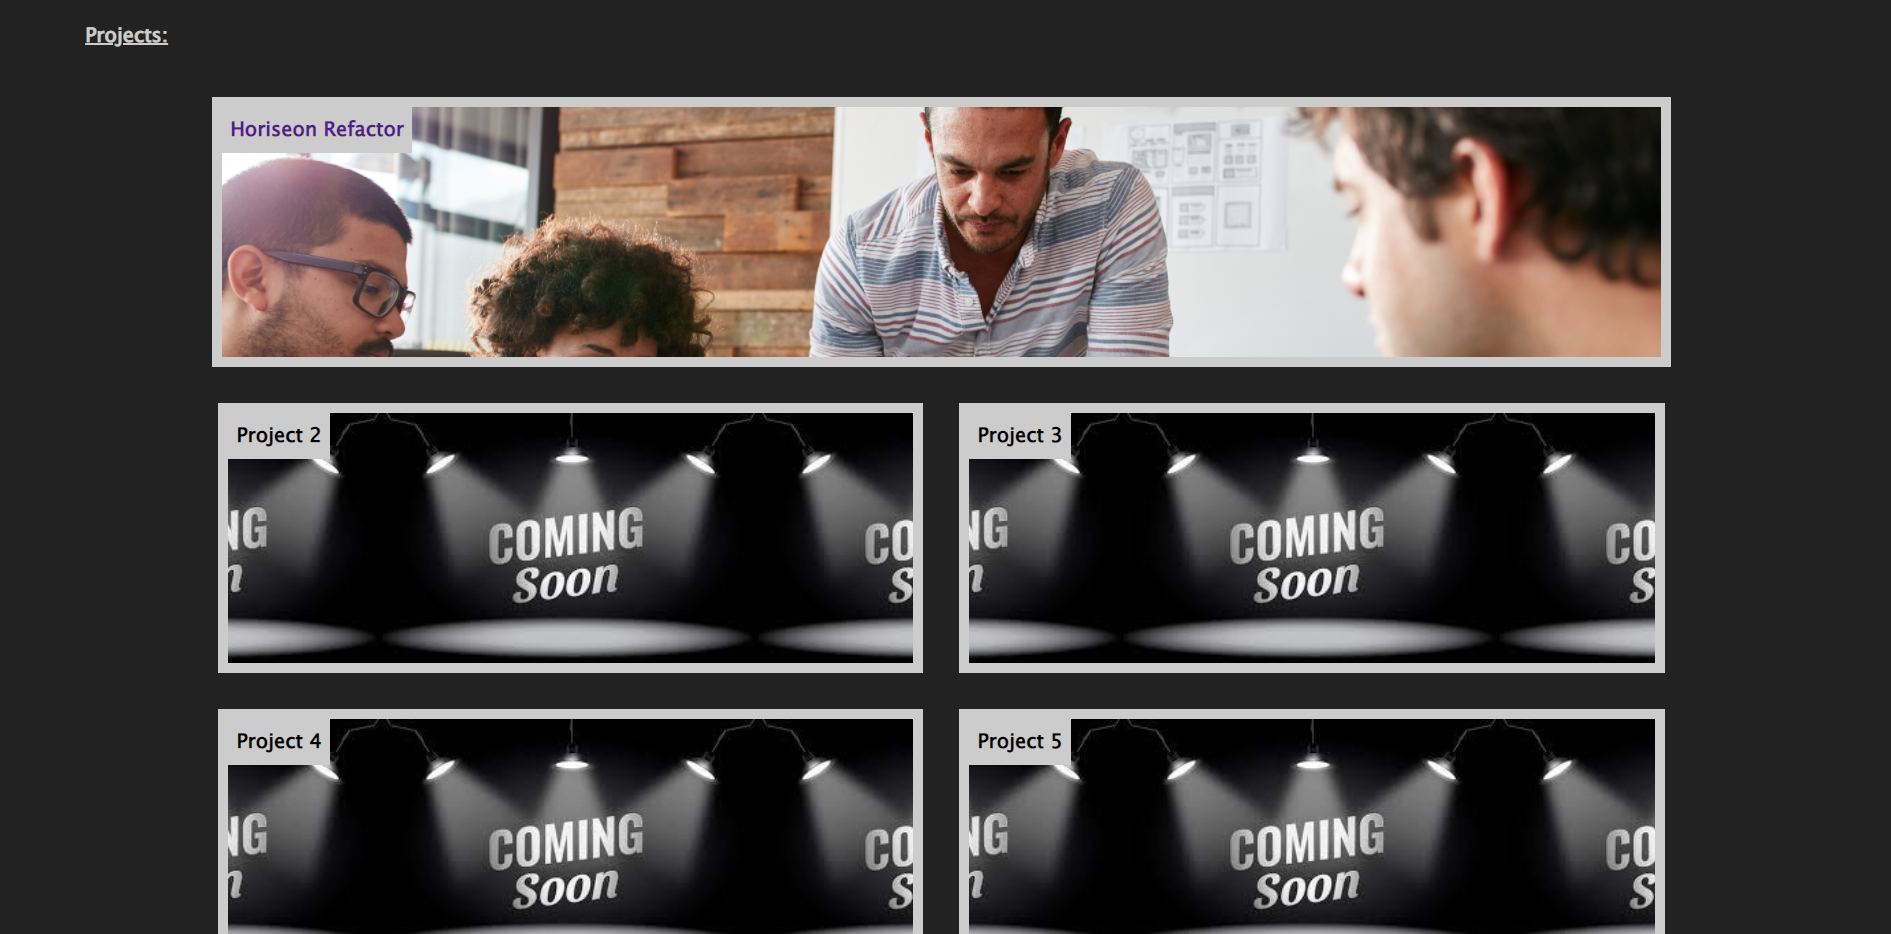
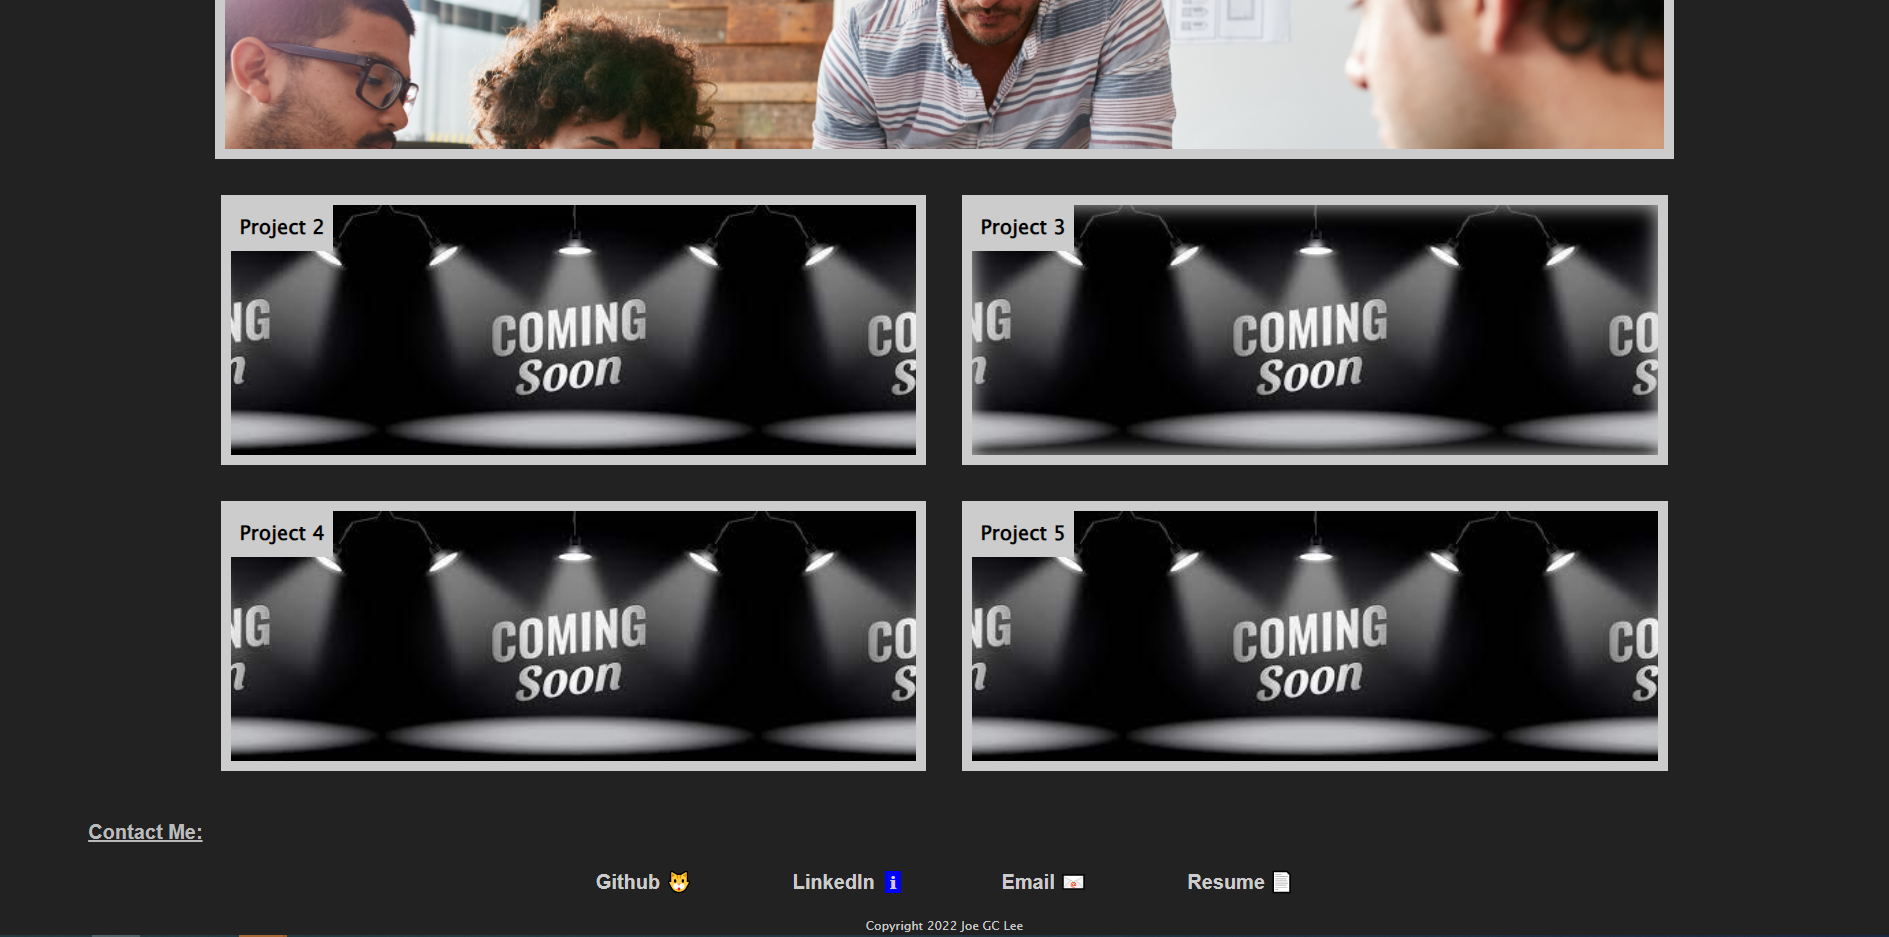
final changes for responsive and screenshots

diff --git a/Assets/style.css b/Assets/style.css
@@ -182,25 +182,22 @@ nav a:hover {
 }
 
 .contactme ul { 
-    display: flex; 
-    justify-content: center; 
+    text-align: center;
     align-items: center; 
     margin: 0; 
     padding: 20px; 
 }
 
 .contactme li {
-    margin:0 50px 0 50px;
+    margin: 0 50px; 
     list-style: none; 
     align-items: center; 
-
 }
 
 .contactme a {
     color: var(--light);
     font-weight: bold;
     text-decoration: none;
-    text-align: center;
 }
 
 .contactme a:hover {
@@ -209,14 +206,14 @@ nav a:hover {
 
 /* icons at contactme  */
 .github a::after {
-    display: inline; 
+    display: inline;
     font-size: 20px;
     content: "🐱";
     margin-left: 5px;
 }
 
 .linkedin a::after {
-    display: inline; 
+    display: inline;
     font-size: 20px;
     background-color: blue;
     content: "ℹ";
@@ -225,14 +222,14 @@ nav a:hover {
 }
 
 .email a::after {
-    display: inline; 
+    display: inline;
     font-size: 20px;
     content: "📧";
     margin-left: 5px
 }
 
 .resume a::after {
-    display: inline; 
+    display: inline;
     font-size: 20px;
     content: "📄";
     margin-left: 5px
@@ -246,13 +243,11 @@ nav a:hover {
 
 /* Responsive media */
 @media screen and (max-width: 768px) {
-    .nav { 
-        flex-direction: column; 
-    }
+    .nav,
+    .contactme,
     .profile, 
-    .info { 
-        flex-direction: column;
-        flex-basis: 100%; 
+    .info,{ 
+        flex-direction: column; 
     }
     .container, 
     h2 { 

diff --git a/README.md b/README.md
@@ -40,7 +40,6 @@ Repository contains:
         -screenshot3
         -screenshot4
         -screenshot5
-        -screenshot6
      
 ## Screenshots
 ![screenshot1](./assets/images/screenshot1.png)
@@ -52,8 +51,6 @@ Repository contains:
 ![screenshot4](./assets/images/screenshot4.png)
 <br/>
 ![screenshot5](./assets/images/screenshot5.png)
-<br/>
-![screenshot6](./assets/images/screenshot6.png)
 
 ## Contribution
 Joe Lee @ https://github.com/jollypong
